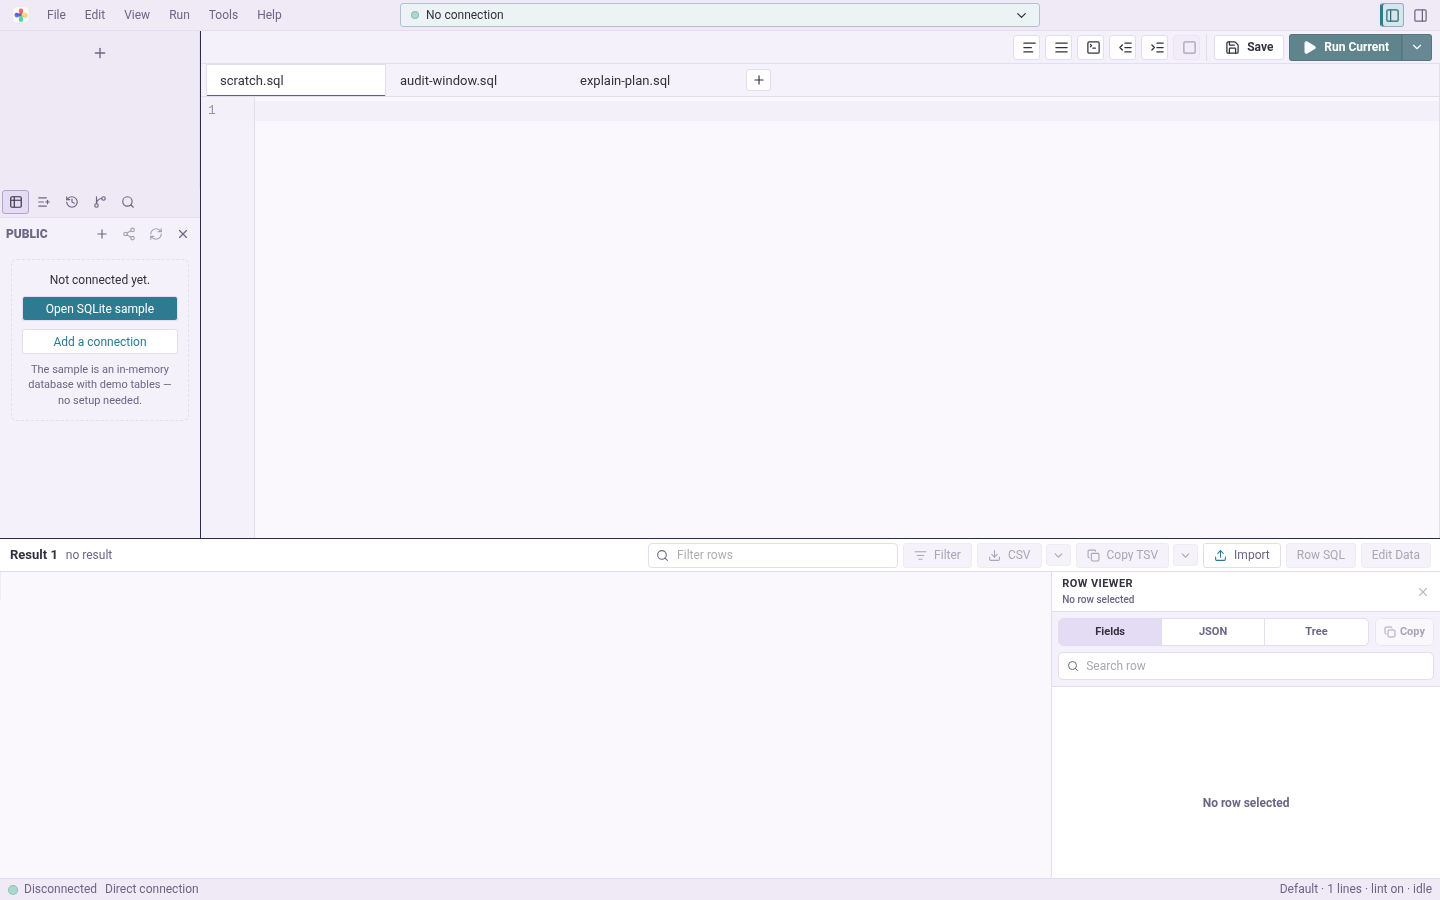
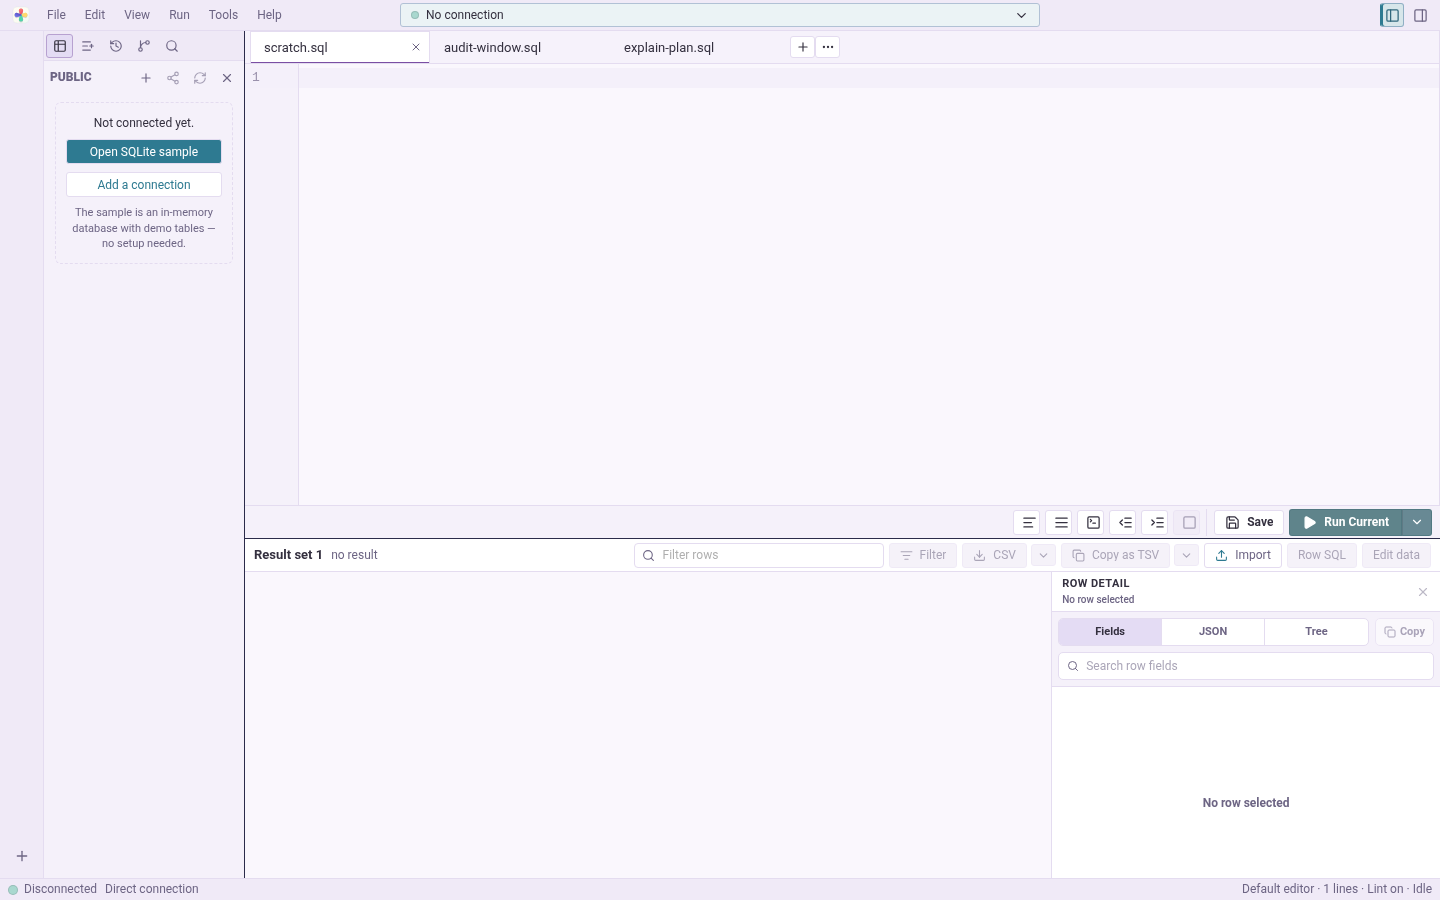
docs: refresh the README workbench preview for the v0.7.29 layout
The screenshot predated the connections rail, full-height sidebars,
and bottom-docked Save/Run toolbar. Add an opt-in Playwright spec
(CAPTURE_PREVIEW=1) so the preview can be regenerated with one command.

diff --git a/apps/desktop/e2e/docs-preview.spec.ts b/apps/desktop/e2e/docs-preview.spec.ts
@@ -1,0 +1,21 @@
+import { expect, test } from "@playwright/test";
+
+// Regenerates the README workbench preview (docs/assets/irodori-table-preview.png).
+// Opt-in so normal e2e runs skip it:
+//   CAPTURE_PREVIEW=1 npx playwright test e2e/docs-preview.spec.ts --project=chromium
+test("capture README workbench preview", async ({ page }) => {
+  test.skip(!process.env.CAPTURE_PREVIEW, "docs capture is opt-in");
+
+  await page.setViewportSize({ width: 1440, height: 900 });
+  await page.goto("/", { waitUntil: "commit" });
+  await expect(page.locator(".app-shell")).toBeVisible({ timeout: 30_000 });
+  await expect(page.locator(".cm-editor")).toBeVisible();
+  // Let fonts, icons, and the dock layout settle before the shot.
+  await page.evaluate(() => document.fonts.ready);
+  await page.waitForTimeout(1_000);
+
+  await page.screenshot({
+    path: "../../docs/assets/irodori-table-preview.png",
+    fullPage: false,
+  });
+});